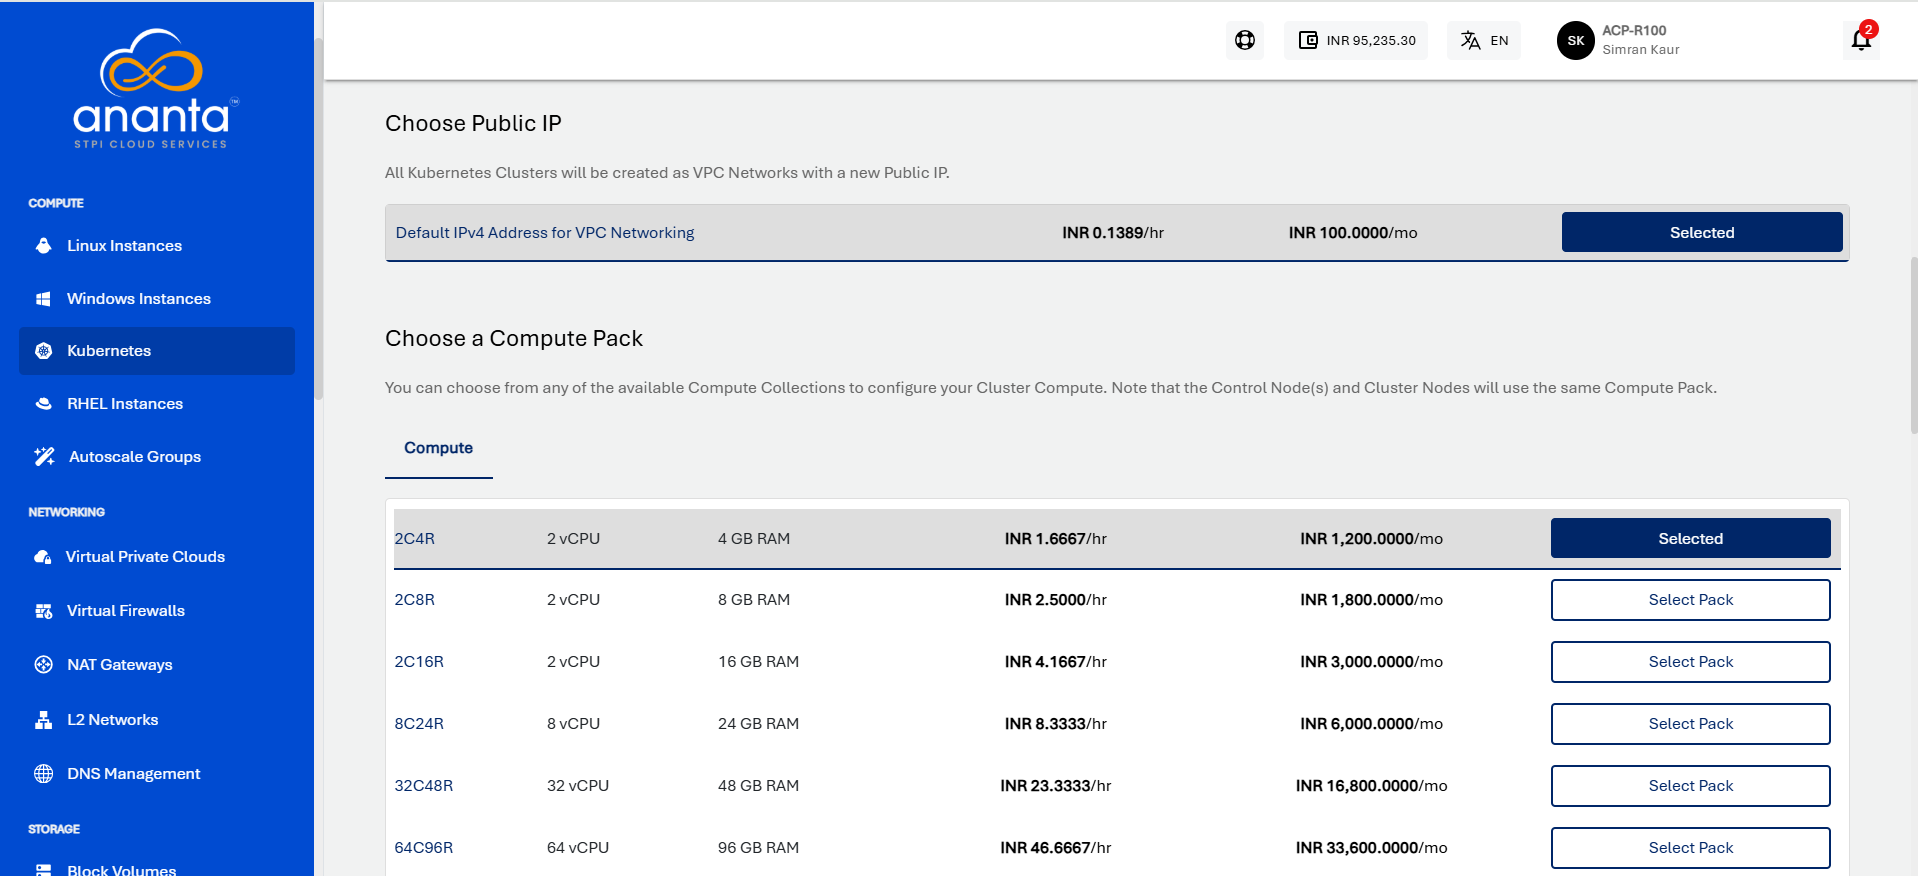
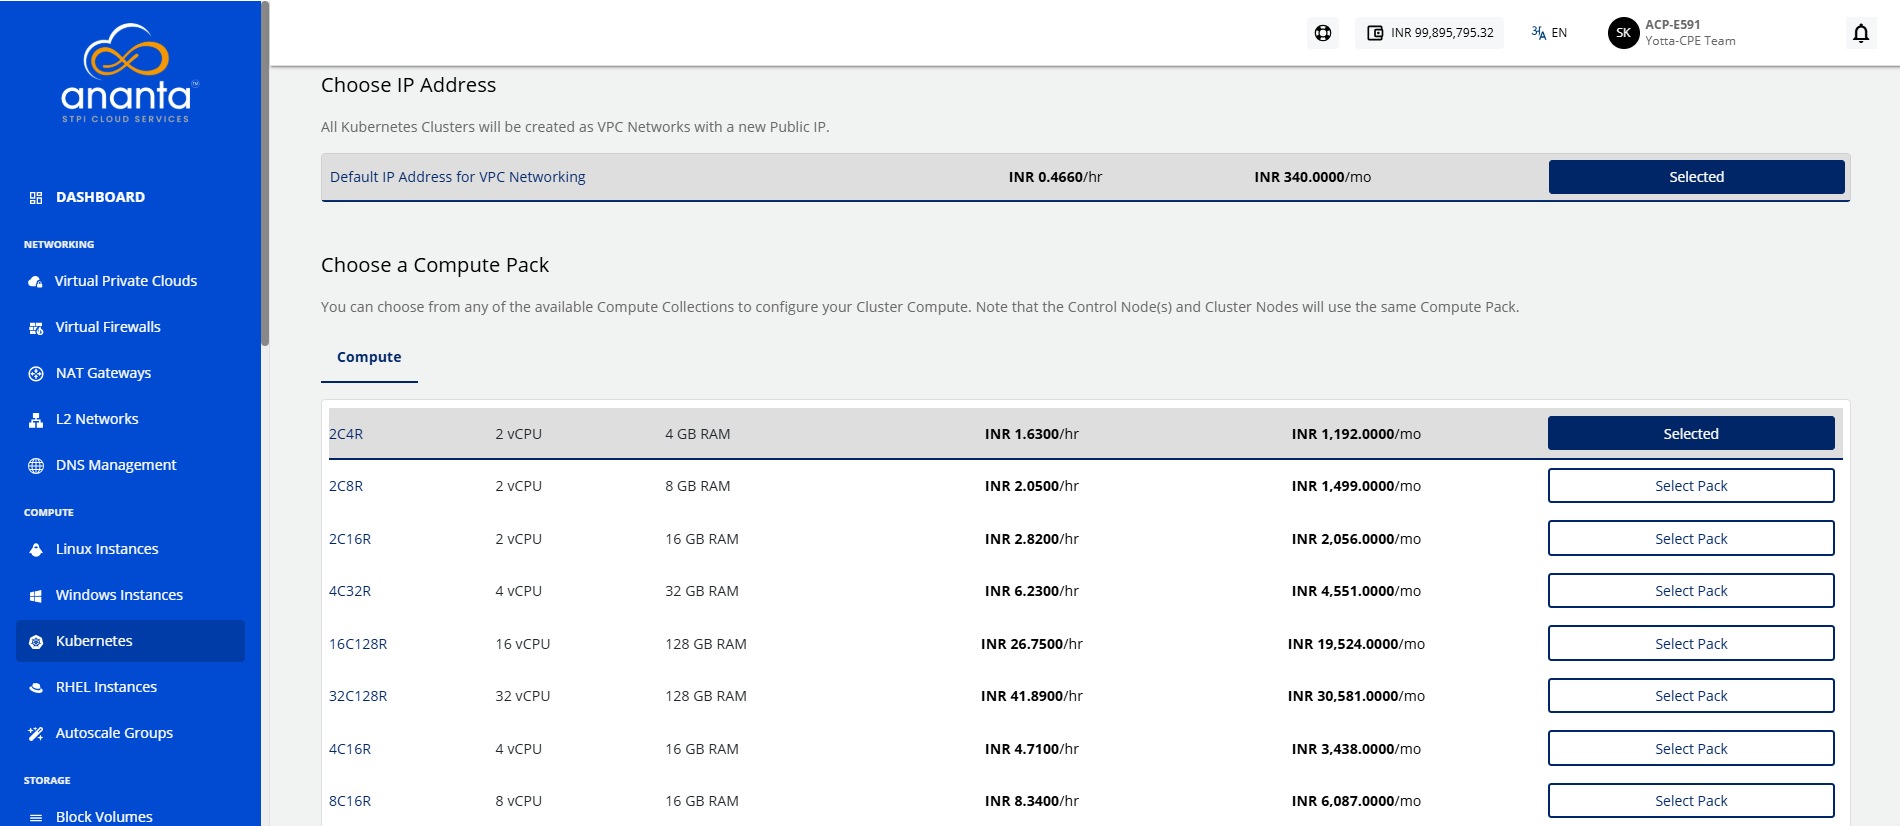
Updates

diff --git a/docs/Guide/Compute/Kubernetes/ViewingKubernetesClusterDetails.md b/docs/Guide/Compute/Kubernetes/ViewingKubernetesClusterDetails.md
@@ -3,46 +3,21 @@ sidebar_position: 3
 ---
 # Viewing Kubernetes Cluster Details
 
-Ananta Cloud Console offers a detailed view of Kubernetes clusters on the UI. Ananta also brings the full power and accessibility of cluster management via the **kubectl** interface.
+View the Kubernetes cluster details to access comprehensive information about the cluster, including its configuration, node information, networking, and current status. Reviewing these details helps you monitor cluster health, verify settings, and troubleshoot issues effectively.
 
-To view cluster details on the UI, follow these steps:
+To view the details of a Kubernetes cluster, follow these steps:
 
-1. Navigate to **Compute > Kubernetes**.
-2. All the Kubernetes clusters for your account will be listed here with the following details:
-    - Kubernetes Cluster Name (Along with the configuration details)
-    - Public IP address
-    - Autoscaling Enabled/Disabled
-    - Created 
-	![ View Kubernetes Cluster ](img/KubernetesCluster1.png)
-
-To  view a list of sections and the various actions you can perform inside the particular section, click the **Kubernetes Cluster** name. Below the cluster name is an informational view where you can find the below details:
-- Configuration
-- Availability Zone
-- Cluster Pack
-- High Availability Enabled/Disabled
-
-![ Viewing Details of Cluster ](img/ViewingKubernetes2.png)
-
-A quick option is available in the top right corner, i.e., to  **POWER OFF/ON** the cluster.
-
-At this stage, the following details can be accessed for the cluster:
-1. **Configuration and Availability**
-    1. The cluster’s status, **RUNNING**, is displayed in <span class="green">**green**</span>, whereas **STOPPED** is displayed in <span style={{ color: 'grey' }}>grey</span>.
-    2. Information about the VPC networking zone.
-2. **Nodes Information**- This displays the basic information about the nodes as listed below.
-    1. Cluster Size
-    2. Computed Pack
-    3. Root disk size
-3. **Internal Information**- This displays the information used for internal identification of this Cluster and communication with other internal services.
-    1. Kubernetes Version
-    2. Virtual router internal name
-    3. Created on
-
-Additionally, other sections are also available on the left which can then be used to view and access various aspects of managing the Kubernetes cluster. These are:
-- **Access** - To view detailed instructions on how to access the cluster using **kubectl**.
-- **Nodes** - To view the cluster nodes (control and worker) and also scale the cluster.
-- **Dashboard** - To view detailed instructions on how to access the Kubernetes dashboard for the cluster.
-- **Networking** - To manage ingress networking rules.
-- **Operations** - To perform basic management operations on the cluster.
-
-
+1. Navigate to **Compute > Kubernetes**. The following screen appears:![ View Kubernetes Cluster ](img/KubernetesCluster1.png)
+2. Click on your created Kubernetes cluster name from the list. 
+	- **Configuration and Availability:** This displays the following Kubernetes cluster configuration details to help verify its current configuration and operational state:
+	    - The instance's status **Running** or **Stopped**.
+	    - Availability Zone
+	    - Cluster Pack
+	    - High Availability
+	- **Nodes:** This displays the following information about the worker nodes associated with the Kubernetes cluster, helping you monitor node health, capacity, and overall cluster status:
+	    - Template Name
+	    - Created On
+	- **Internal Information:** This displays the following information that is used for internal identification of the Kubernetes cluster and communication with other internal services:
+	    - Kubernetes Version
+	    - Virtual Router Internal Name
+	    - Created On

diff --git a/docs/Guide/Compute/Kubernetes/CreatingaKubernetesCluster.md b/docs/Guide/Compute/Kubernetes/CreatingaKubernetesCluster.md
@@ -1,29 +1,31 @@
 ---
-sidebar_position: 2
+sidebar_position: 1
 ---
 # Creating a Kubernetes Cluster
 
-To create a Kubernetes cluster on an advanced VPC AZ, follow these steps:
-1. Navigate to **Compute > Kubernetes**.
+A Kubernetes cluster is a managed environment for deploying and managing containerized applications. Creating a Kubernetes cluster enables you to automate application deployment, scaling, and management while ensuring high availability, efficient resource utilization, and simplified operations across your cloud environment.
+
+To create a Kubernetes cluster, follow these steps:
+1. Navigate to **Compute > Kubernetes**. The following screen appears:
 	![New Kubernetes Cluster](img/KubernetesCluster1.png)
-2. Click the **NEW KUBERNETES CLUSTER** button.
-3. Choose an Availability Zone, which is the geographical region where your Kubernetes cluster will be deployed. Kubernetes Clusters can be created only in Availability Zones that support VPC Networking.   ![Availability Zone](img/KubernetesCluster2.png)
-4. Choose a **Cluster Pack** from any of the available VPC Network Collections to set up the Kubernetes Cluster.
-5. **Public IP** will be selected by default.
-6. Choose a **Compute Pack** from the available compute collections.   ![Compute Pack](img/ComputePack.png)
+2. Click the **New Kubernetes Cluster** button. The following screen appears:![Availability Zone](img/KubernetesCluster2.png)
+3. Select an Availability Zone.
+4. Select a cluster pack from the list.![Compute Pack](img/ComputePack.png)
+5. Select the required IP address configuration for the cluster.
+6. Choose a **Compute Pack** from the available compute collections.![Cluster Options](img/ClusterOptions.png)
 7. You need to define the various cluster options listed below:
     1. You can enable the high availability HA for the cluster.
-    2. Specify the cluster size, i.e., the no. of worker nodes. 
+    2. Specify the cluster size (For example: The no. of worker nodes). 
     3. Specify the node root disk size; a minimum of 8GB is required.
     4. Choose Kubernetes version (To learn how to access the dashboard from version 1.24 onwards, refer to [Accessing the Dashboard](Accessingthekubernetesdashboard.md)).
-	![Cluster Options](img/ClusterOptions.png)
-9. Verify the Estimated Cost of your Kubernetes Cluster based on the specifications you have chosen from the Summary and Estimated Costs Section (Here, both the Hourly and Monthly Prices summary will be displayed)
-10. Select the **I have read and agreed to the End User License Agreement and Privacy Policy** option.
-11. Click the **BUY HOURLY** or **BUY MONTHLY** button and click **CONFIRM** to create the Kubernetes Cluster.
+8. Enter the Kubernetes cluster name in **Name Your Kubernetes Cluster**.
+9. Select the **I have read and agreed to the** **End User License Agreement** and **Privacy Policy**. option, and click the **Buy Monthly** or **Buy Hourly** button.
     ![Summary](img/Summary.png)
-	:::note
+
+
+:::note
 	This might take up to 5-8 minutes. You may use the Cloud Console during this time, but it is advised that you do not refresh the browser window.
-	:::
-Once ready, you get the notification of this purchase on your email address on record. The newly created Kubernetes cluster can be accessed from **Compute >** **Kubernetes** on the main navigation panel.
+:::
+
 
 

diff --git a/docs/Guide/Compute/Kubernetes/StoppingandStartingaKubernetesCluster.md b/docs/Guide/Compute/Kubernetes/StoppingandStartingaKubernetesCluster.md
@@ -1,0 +1,15 @@
+---
+sidebar_position: 4
+---
+# Stopping and Starting a Kubernetes Cluster
+
+Stop and start a Kubernetes cluster to perform maintenance, troubleshoot issues, or manage resource usage. Stopping the cluster temporarily suspends its operation, while starting it restores the cluster and its services, allowing your containerized workloads to resume normal operation.
+
+To stop and start a Kubernetes cluster, follow these steps:
+
+1. Navigate to **Compute > Kubernetes**. The following screen appears:![ View Kubernetes Cluster ](img/KubernetesCluster1.png)
+2. Click on your created Kubernetes cluster name from the list.
+3. Click the **Stop Cluster** button. The following screen appears: ![Overview tab and Stop Cluster](img/Overview.png)
+4. Click the **Yes** button. The following screen appears:![Start Cluster](img/StartCluster.png)
+5. Click the **Start Cluster** button. The following screen appears: ![Starting Cluster](img/StartingCluster.png)
+6. Click the **Yes** button.

diff --git a/docs/Guide/Compute/WindowsInstances/WindowsInstanceOperations.md b/docs/Guide/Compute/WindowsInstances/WindowsInstanceOperations.md
@@ -67,7 +67,7 @@ To reset SSH key of a Window instance, follow these steps:
 3. Navigate to **Operations**. ![Operations Tab](img/OperationsTab.png)
 4. Click the **Stop Instance** button. The following screen appears: ![Stopping Instance](img/StopInstanceOperations.png)
 5. Click the **Yes** button.
-6. Click the **Reset SSH key** button. The following screen appears:
+6. Click the **Reset SSH key** button.
 7. Select an SSH key from the dropdown and select the **Send new password for this Instance on my email** option.
 8. Click the **Confirm SSH Key Pair Reset** button.
 

diff --git a/docs/Guide/Compute/Kubernetes/ViewingKubernetesClusters.md b/docs/Guide/Compute/Kubernetes/ViewingKubernetesClusters.md
@@ -1,0 +1,12 @@
+---
+sidebar_position: 2
+---
+# Viewing Kubernetes Clusters
+
+View Kubernetes clusters and access essential details such as cluster name, public IP address, autoscaling configuration, and creation date. Monitor cluster information from a centralized view to quickly review configurations and manage your Kubernetes environments efficiently.
+
+To view the Kubernetes cluster, navigate to **Compute > Kubernetes**. The following screen appears:
+
+![ View Kubernetes Cluster ](img/KubernetesCluster1.png)
+
+
